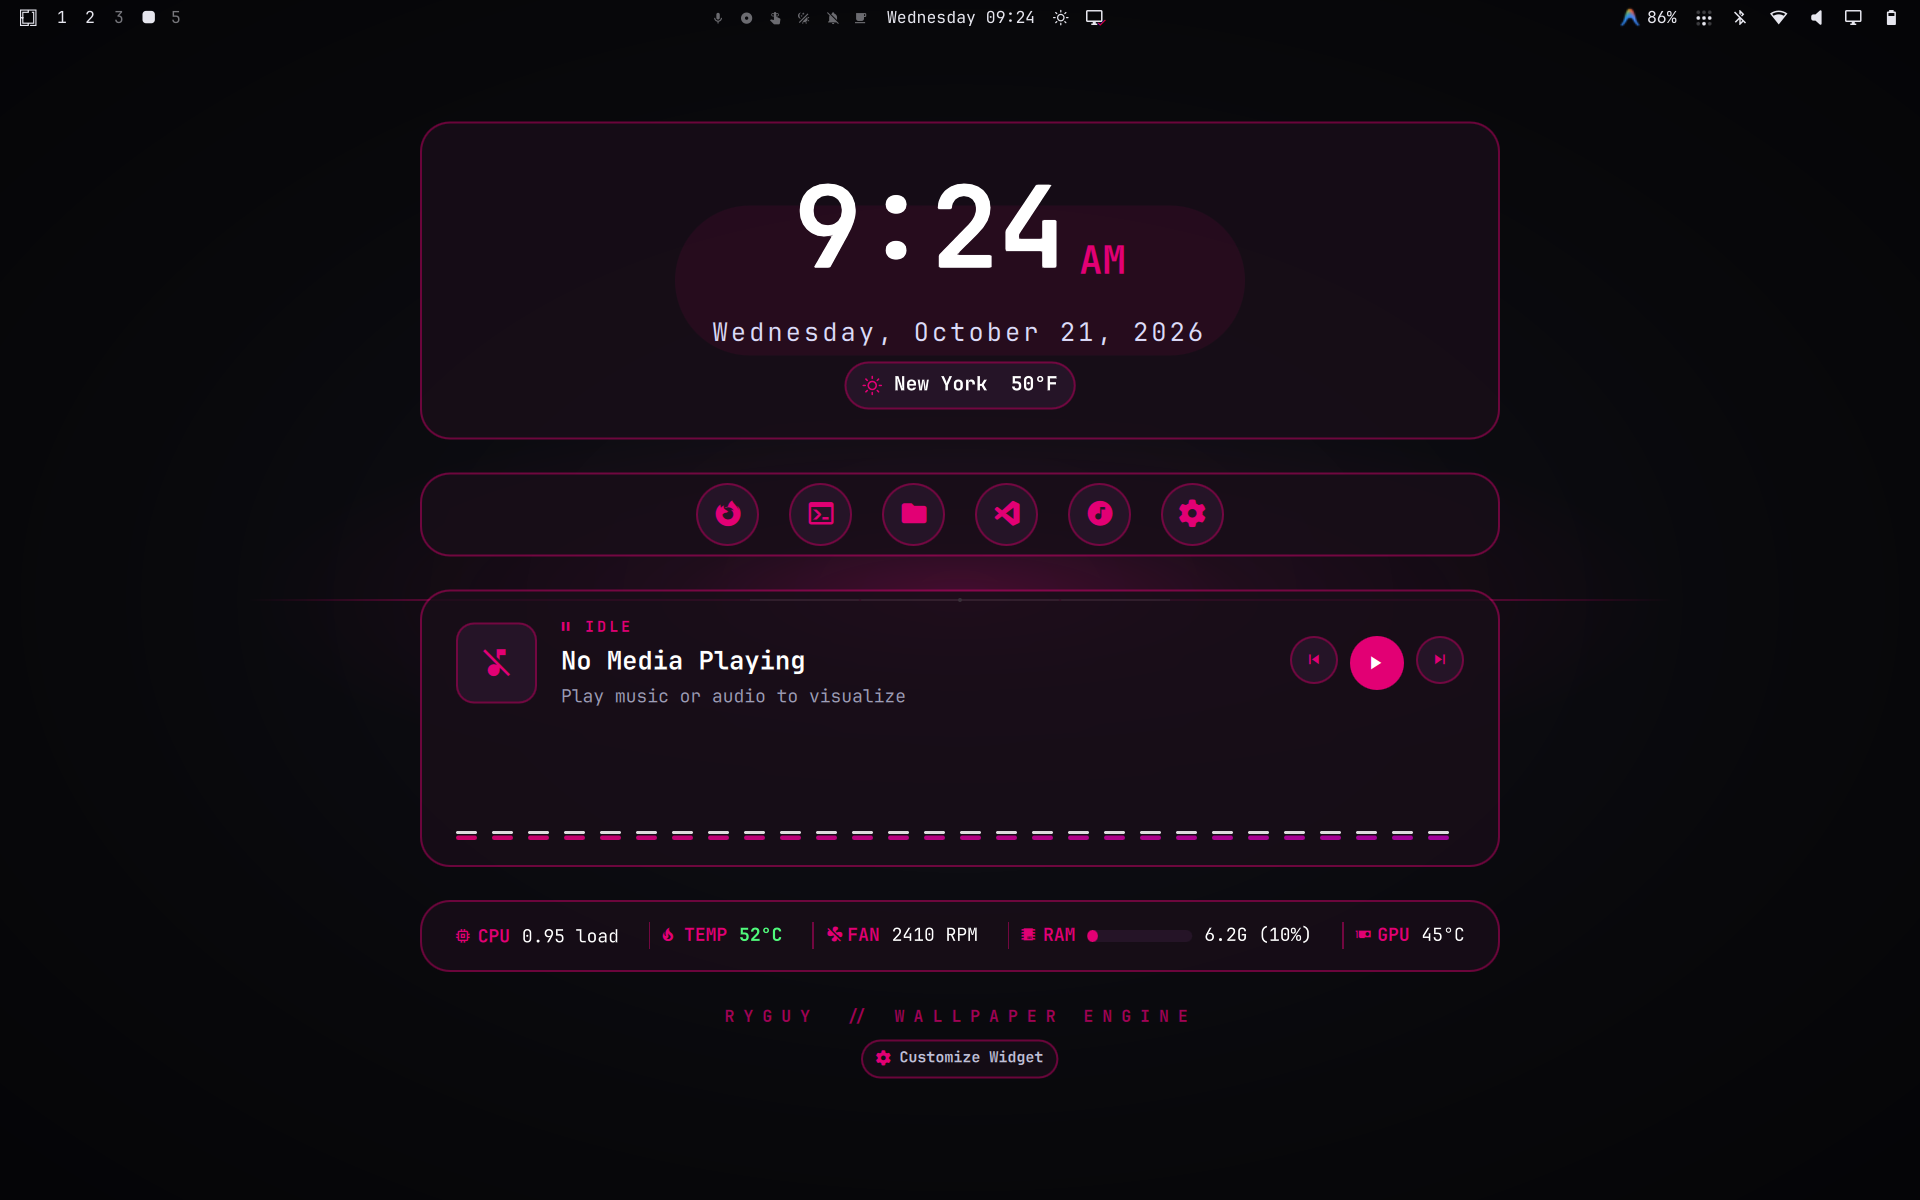
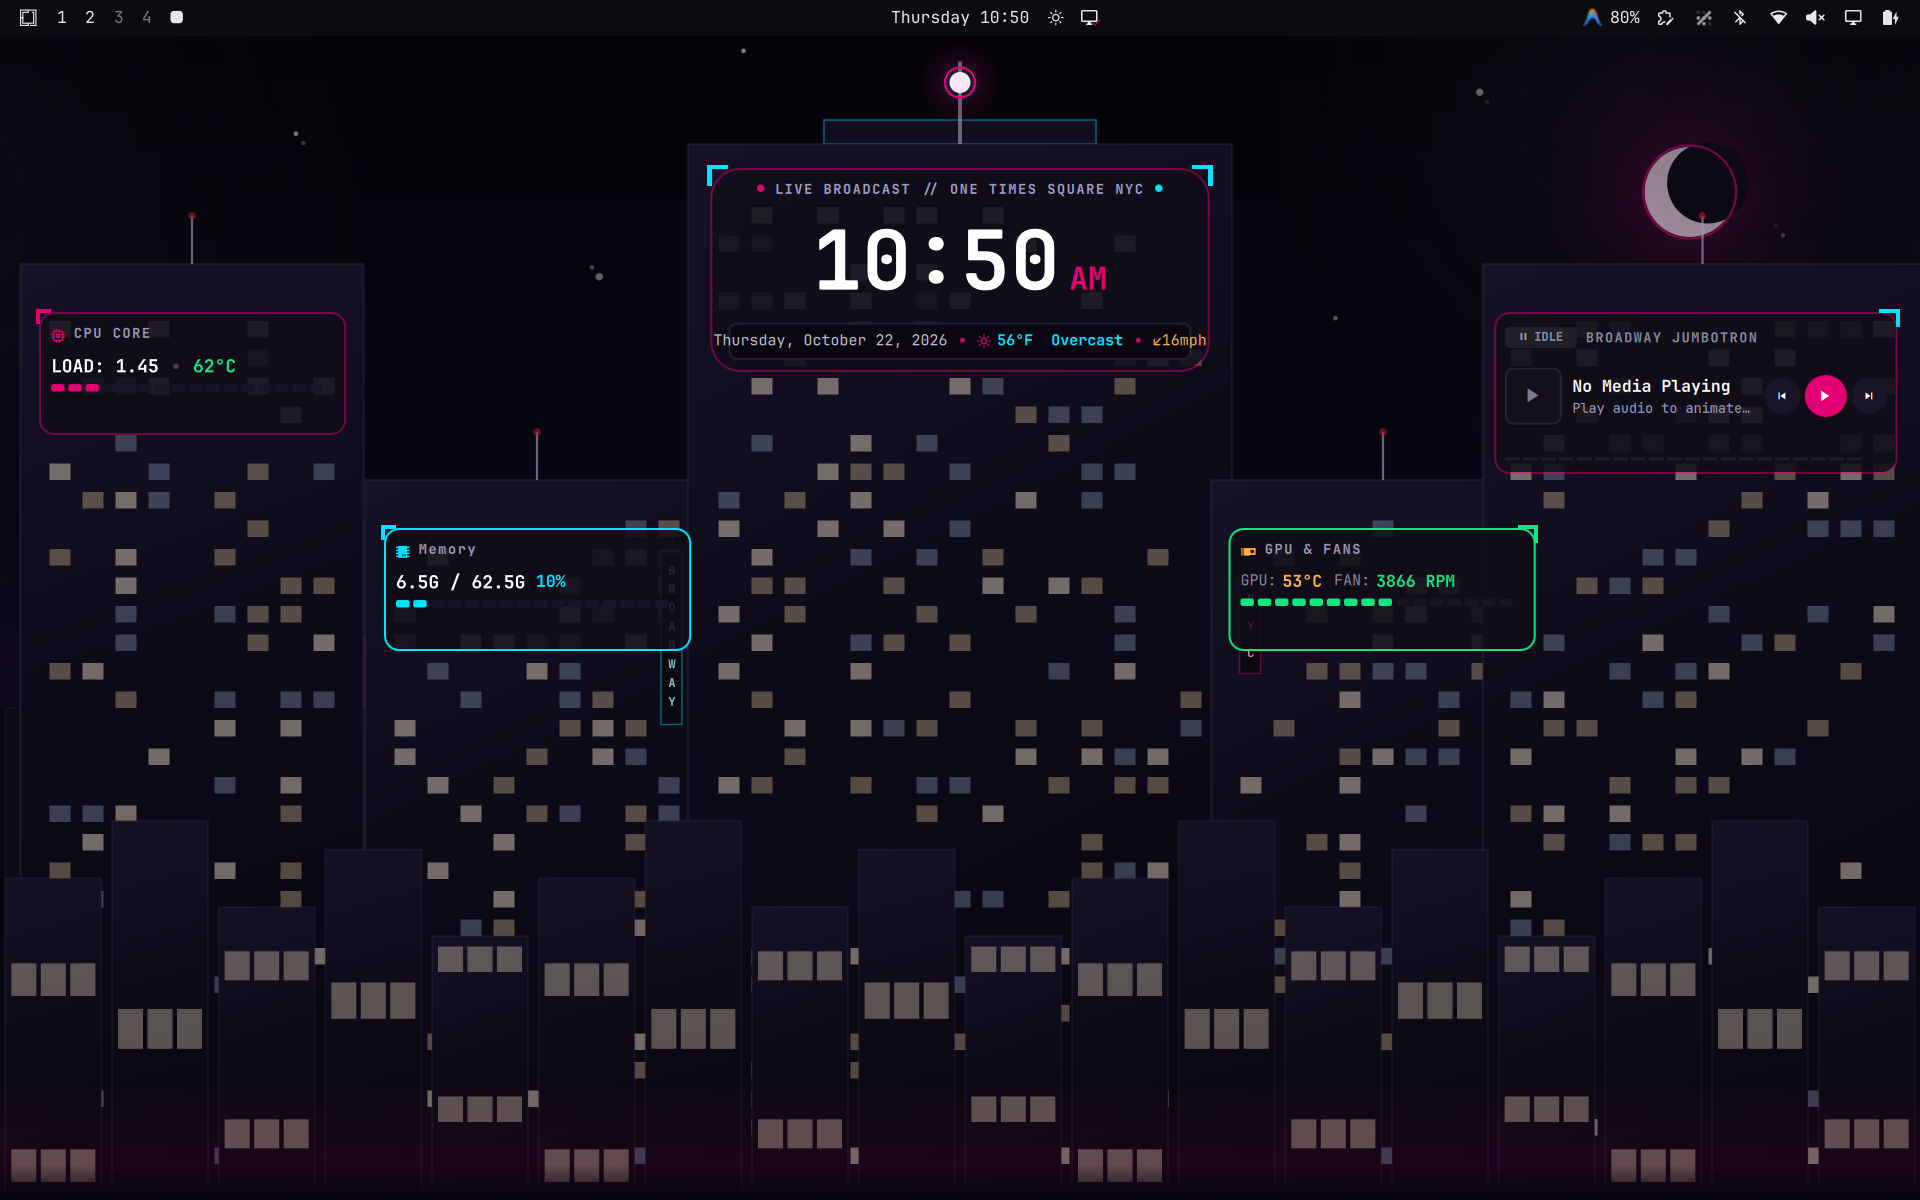
Update preview.png and add animated GIFs for weather and audio reactivity

diff --git a/README.md b/README.md
@@ -6,6 +6,14 @@ Featuring an authentic Times Square street canyon with 5 flagship skyscrapers mo
 
 ![Wallpaper Engine Preview](preview.png)
 
+<p align="center">
+  <img src="assets/weather-demo.gif" alt="Dynamic Weather Simulation" width="48%" />
+  <img src="assets/audio-demo.gif" alt="Audio Reactive Visualizer & Skyline" width="48%" />
+</p>
+<p align="center">
+  <em>Live Dynamic Weather (Thunderstorm Lightning / Rain) & Audio-Reactive Skyline & Visualizer</em>
+</p>
+
 ---
 
 ## 🚀 Quick Install
